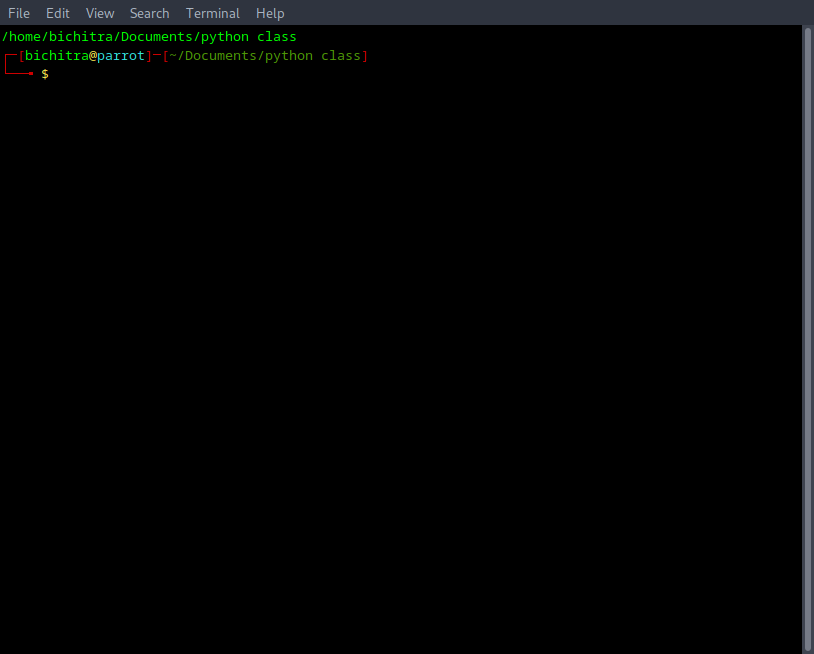
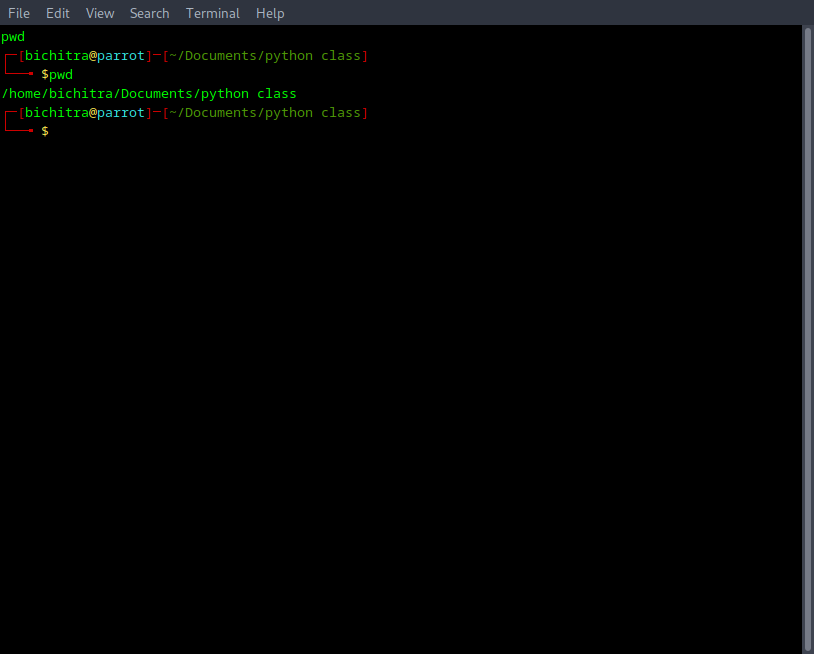
Update basiclinuxcommands.py to run commands in MATE Terminal

Changed region(s): [[0.0, 0.0917, 0.4607, 0.2141], [0.0, 0.0306, 0.3071, 0.0612], [0.3378, 0.0306, 0.3686, 0.0612]]

diff --git a/self/basiclinuxcommands.py b/self/basiclinuxcommands.py
@@ -13,8 +13,9 @@ commands = [
 # Run each command and take a screenshot
 for command in commands:
     # Open a new MATE Terminal window and run the command
-    subprocess.Popen(['mate-terminal', '--', 'bash', '-ic', f"{command}; exec bash"])
-    
+    bash_command = f'bash -c "sleep 1; xdotool type \\"{command}\\"; xdotool key Return; exec bash"'
+
+    subprocess.Popen(['mate-terminal', '-e', bash_command])   
     # Wait for the command to finish and the output to appear
     time.sleep(6)
     
